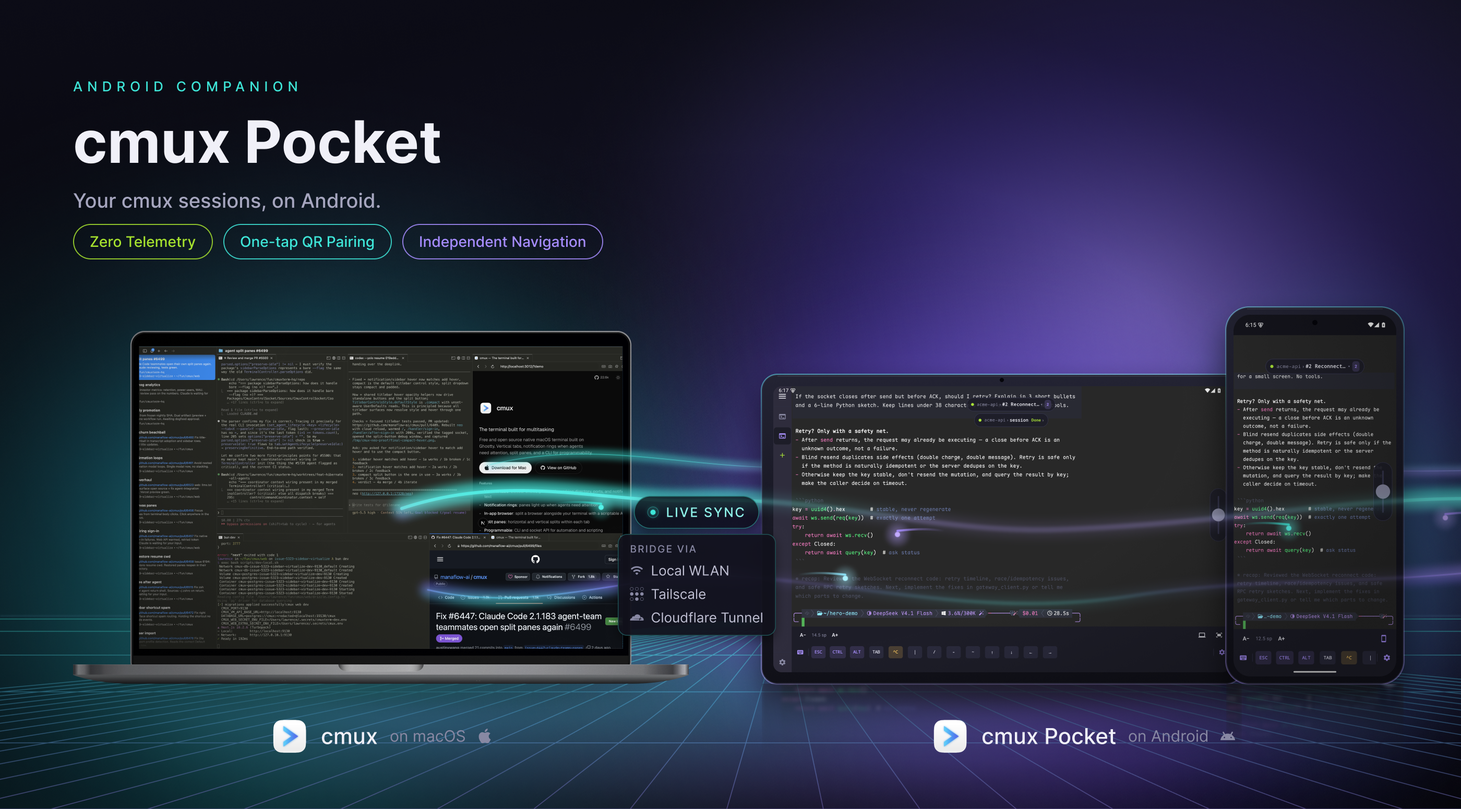
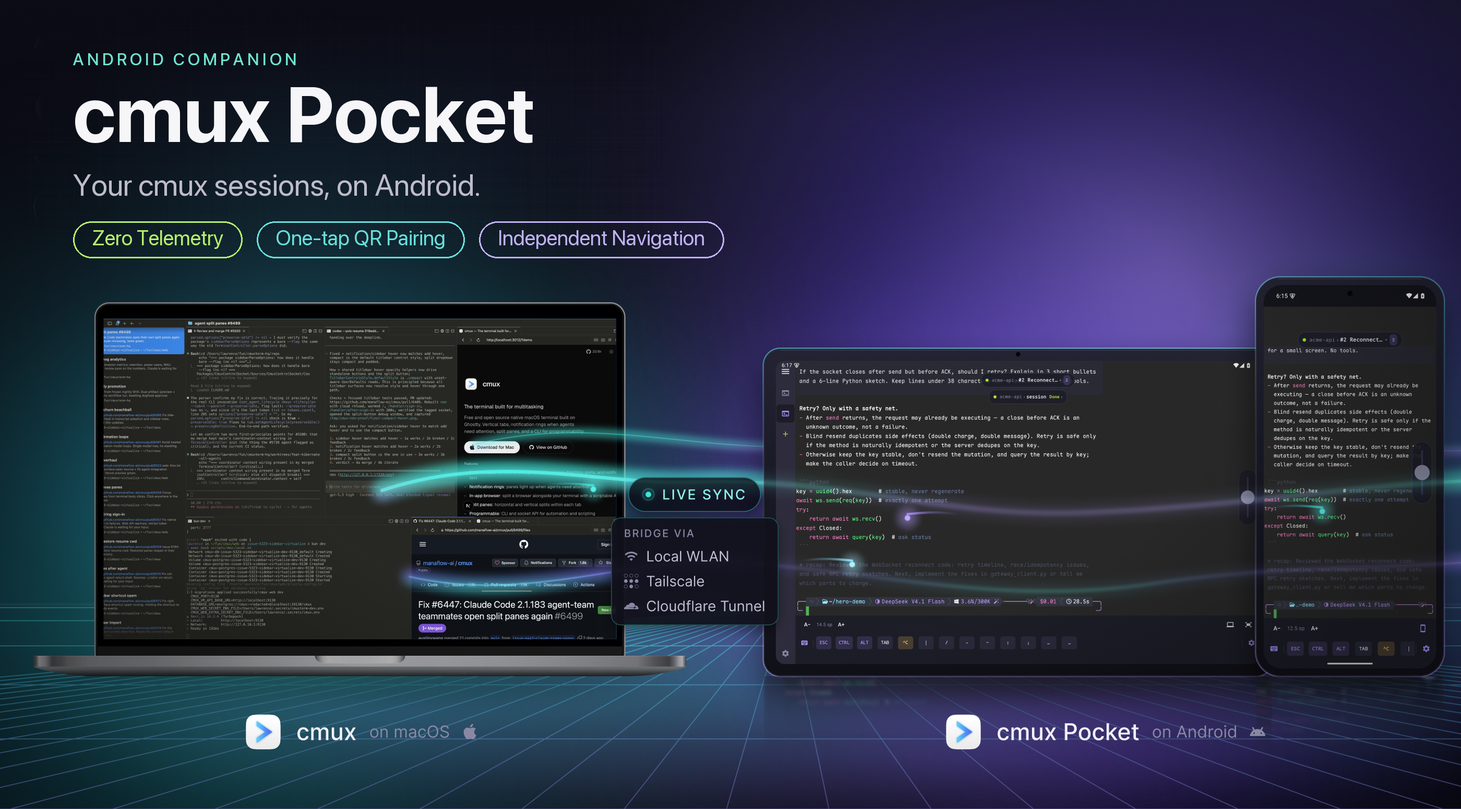
docs: enlarge README hero for mobile readability

diff --git a/CHANGELOG.md b/CHANGELOG.md
@@ -11,6 +11,10 @@ extracts the section for the pushed tag while publishing, and
 
 ## [Unreleased]
 
+### Changed
+
+- Enlarged README hero typography and device artwork for portrait-phone readability.
+
 ## [0.4.1] - 2026-11-11
 
 **Quick command phrases, customizable keyboard bar, and IME layout fix**
